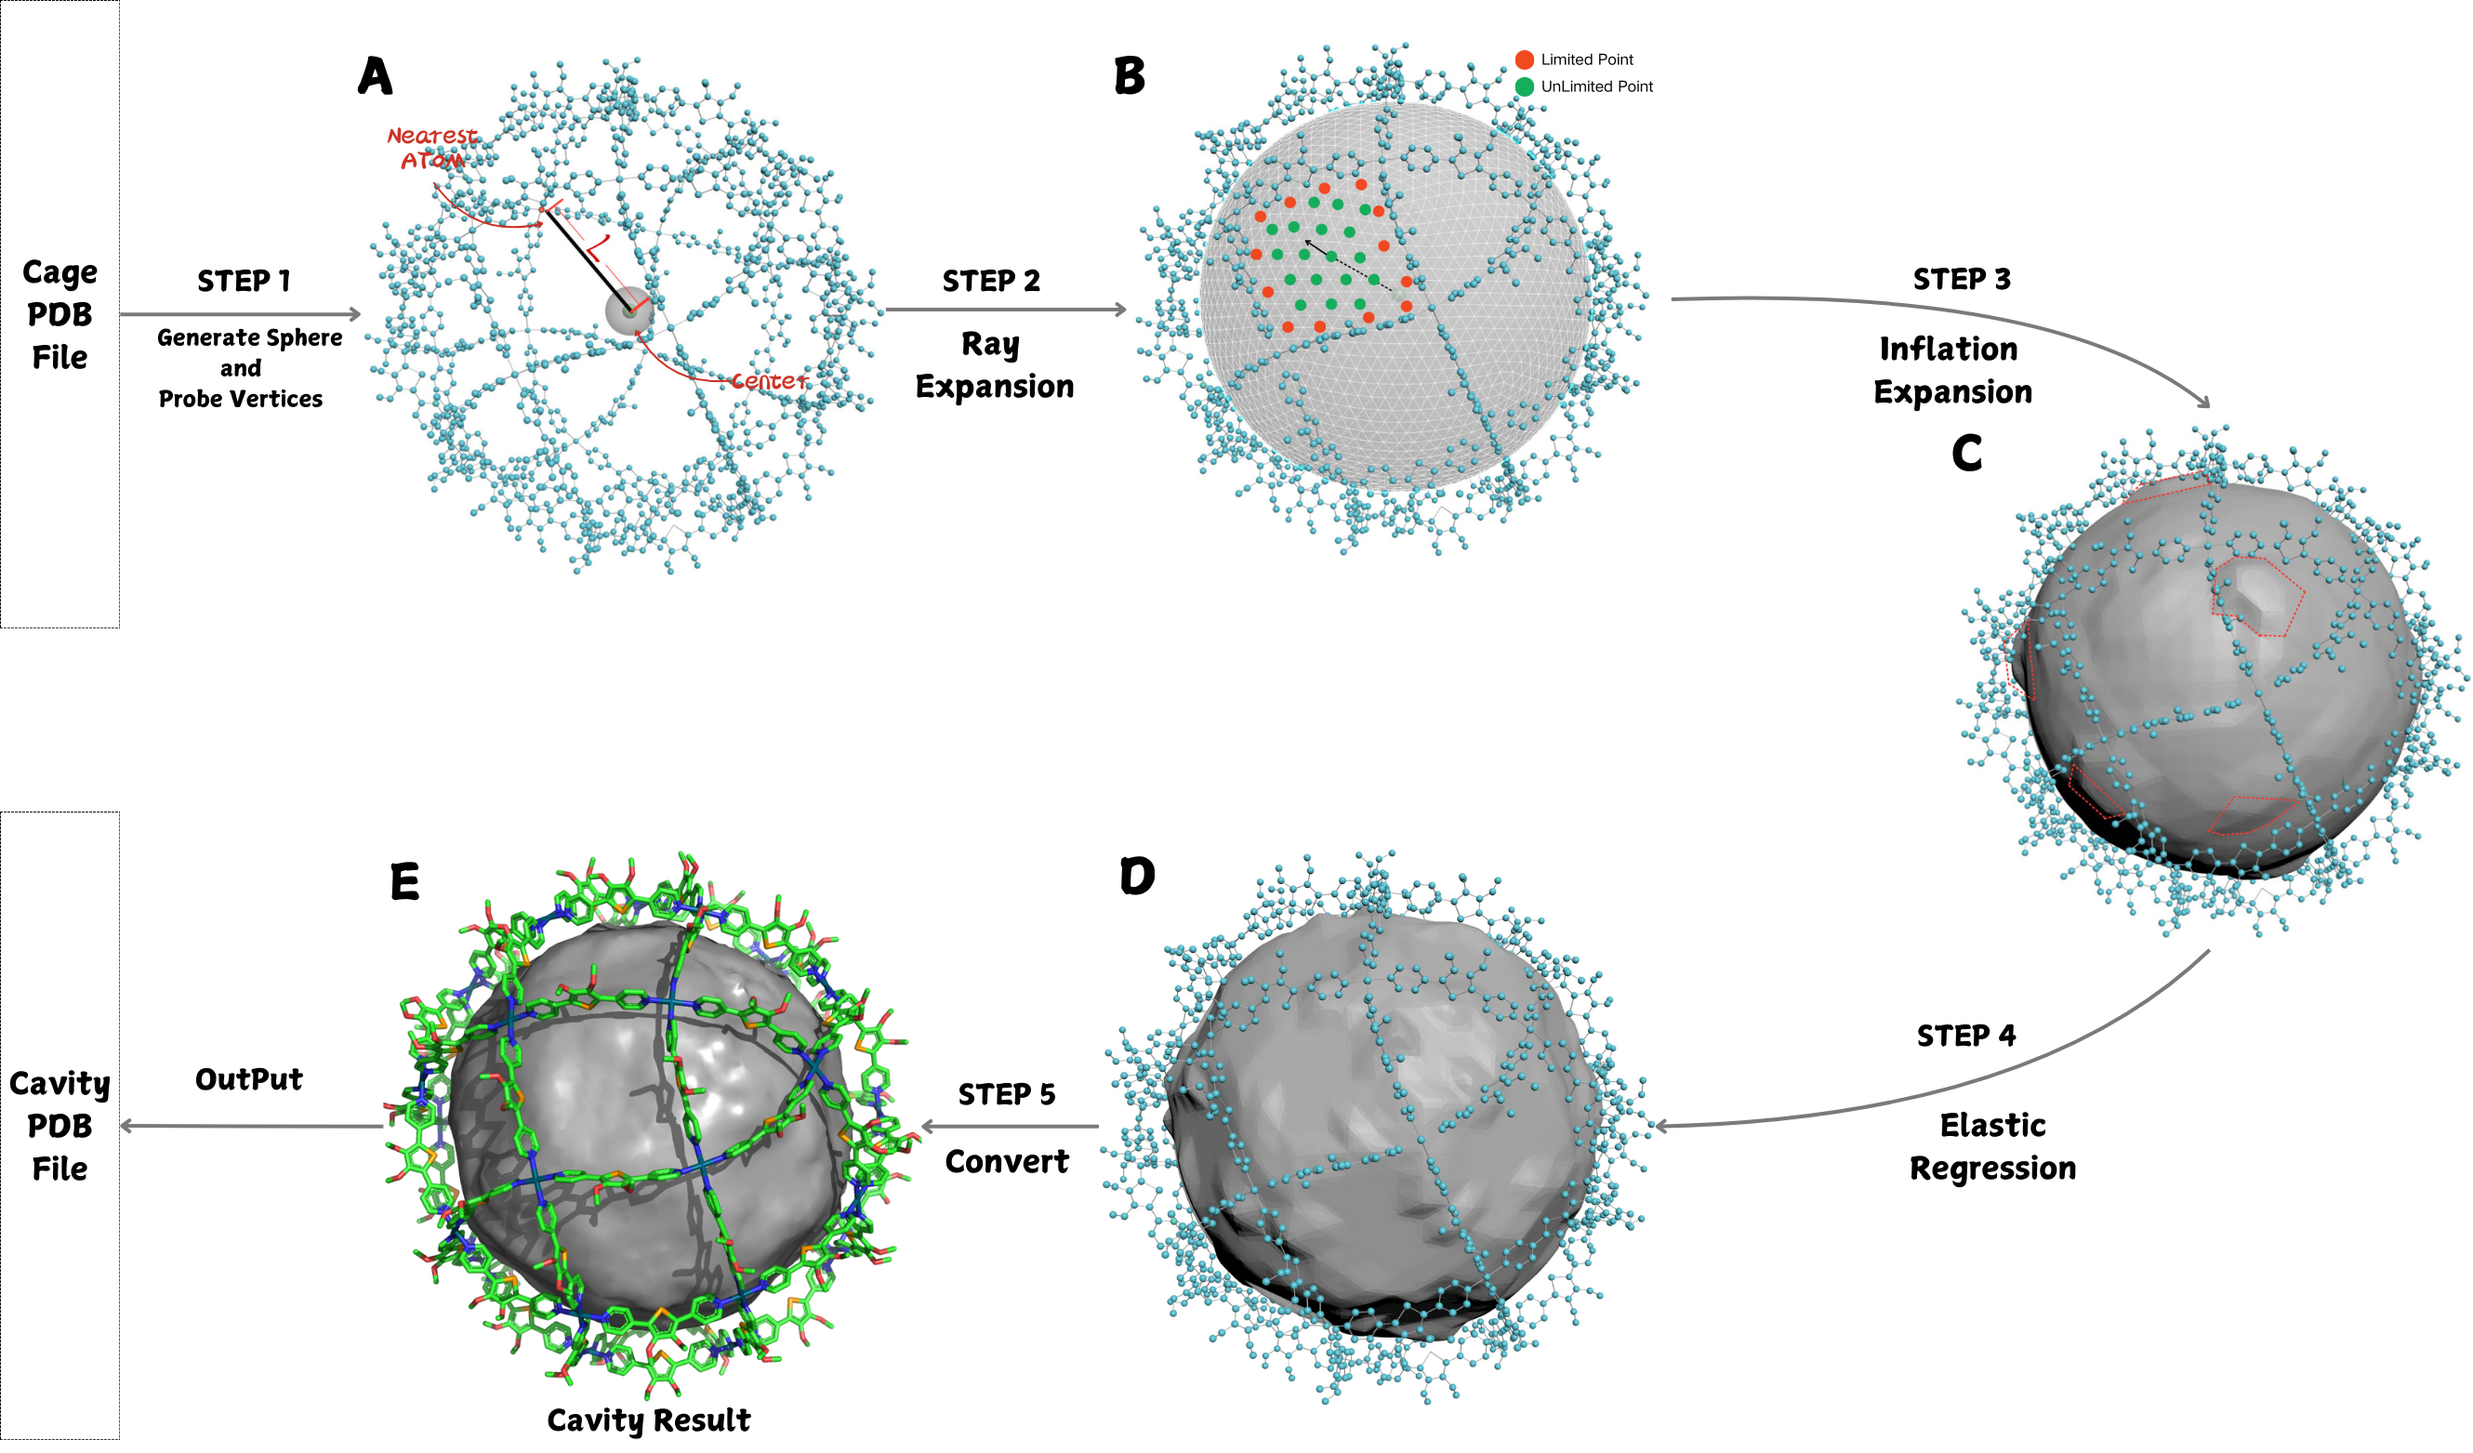
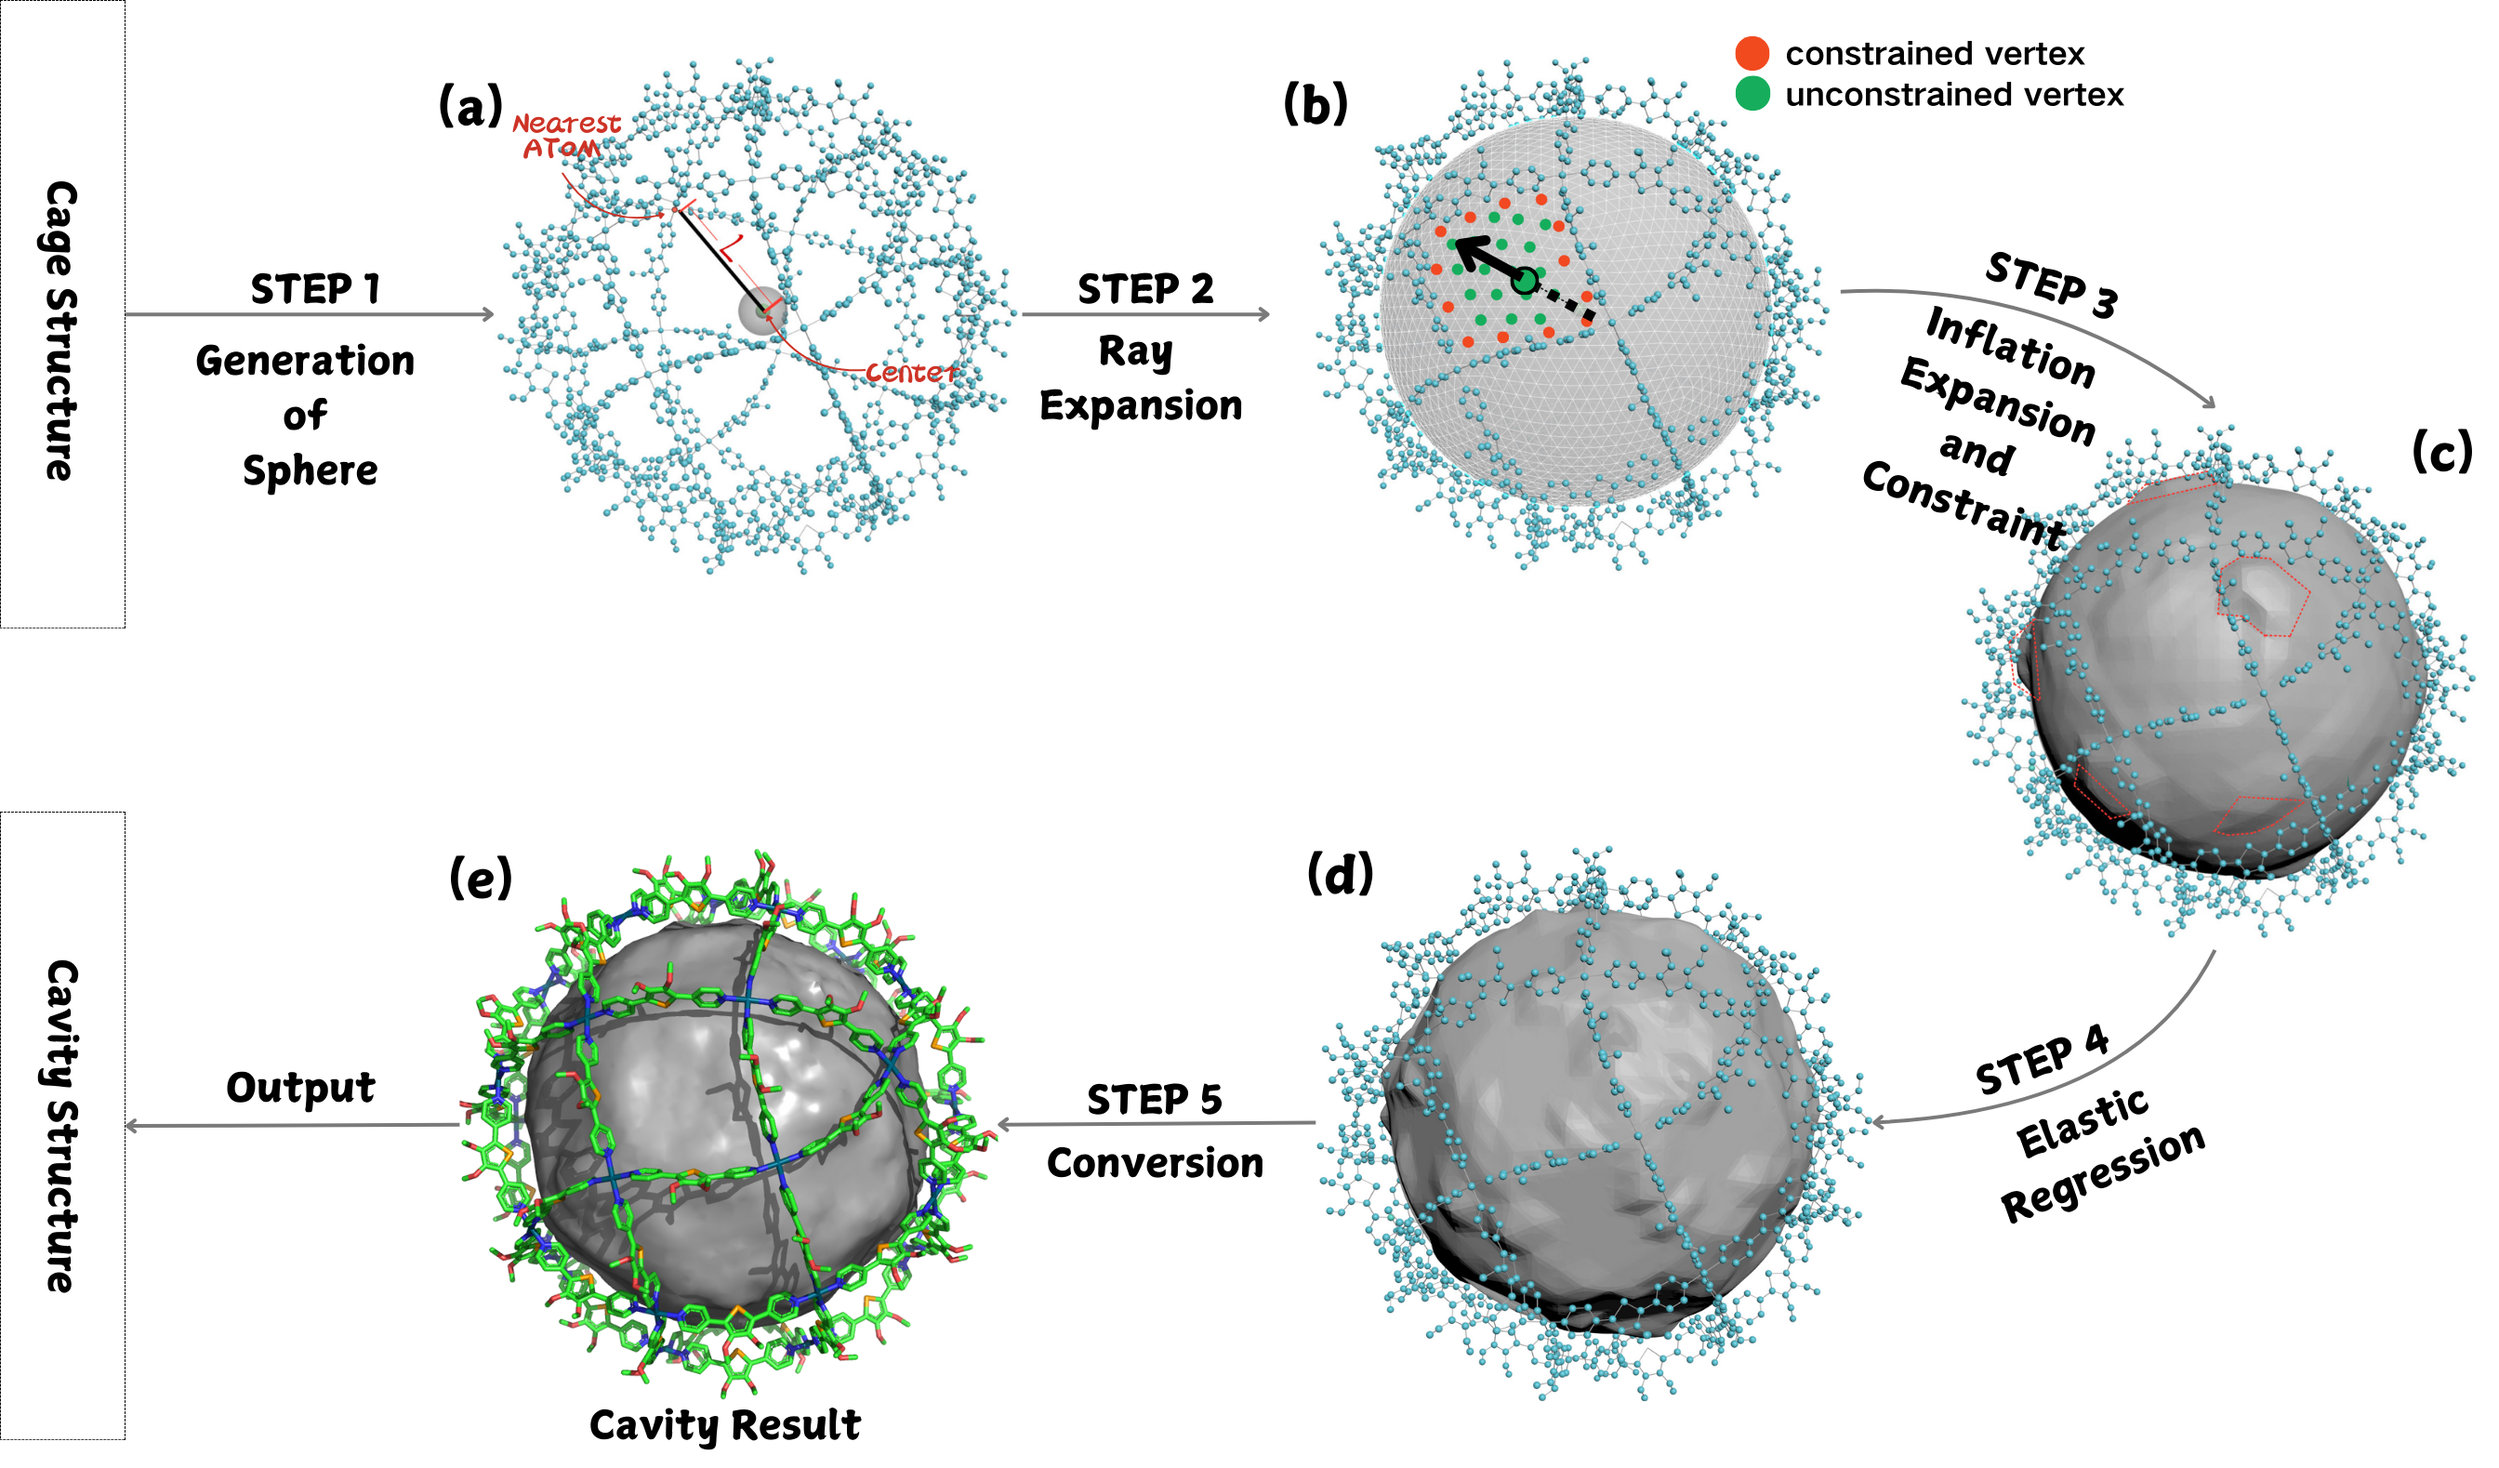
Supporting Information update

diff --git a/Supporting_Information.md b/Supporting_Information.md
@@ -1,6 +1,6 @@
 # Supporting Information
 
-The document serves as supporting material for "EXPANDING BALLOONS — A Robust Computational Method for Determining Supramolecular Cage Cavity Morphology Based on the 'Inflating Balloon' Metaphor." It provides further explanations of four parts of the paper: comparison of working parameters [(S1)](#s1-compare-working-parameter), center selection experiment [(S2)](#s2--center-selection-experiment-reult), SCB vertex result conversion [(S3)](#s3--parameters-selection-and-experimental-results),  experimental parameters and results of the baseline dataset [(S4)](#s4--scb-result-convert), and detail of step length selection experiment[(S5)](#s5--step-length-selection-experiment). For detailed information on how to install and use SCB, please refer to the GitHub repository for comprehensive documentation and source code.
+The document serves as supporting material for "EXPANDING BALLOONS — A Robust Computational Method for Determining Supramolecular Cage Cavity Morphology Based on the 'Inflating Balloon' Metaphor." It provides further explanations of four parts of the paper: comparison of working parameters [(S1)](#s1-compare-working-parameter), center selection experiment [(S2)](#s2--center-selection-experiment-reult), CMCC vertex result conversion [(S3)](#s3--parameters-selection-and-experimental-results),  experimental parameters and results of the baseline dataset [(S4)](#s4--CMCC-result-convert), and detail of step length selection experiment[(S5)](#s5--step-length-selection-experiment). For detailed information on how to install and use CMCC, please refer to the GitHub repository for comprehensive documentation and source code.
 
 ## S1: Compare working parameter
 <div align="center">
@@ -148,7 +148,7 @@ The following tables demonstrate the impact of the choice of sphere center on th
 
 <div align="center">
 
-| **Cage**                      | **Estimated Volume (Å³)** | **SCB Result (Å³)** | **Subdivision Times** | **Result**                           |
+| **Cage**                      | **Estimated Volume (Å³)** | **CMCC Result (Å³)** | **Subdivision Times** | **Result**                           |
 |:----------------------------------:|:-------------------------:|:--------------:|:-----------------:|:-----------------------------------:|
 | **B1**                        | 273                       | 303            | 4                 | <img src="./image/B1.png" width="100" height="100"/>   |
 | **B2**                        | 281                       | 314            | 4                 | <img src="./image/B2.png" width="100" height="100"/>   |
@@ -169,7 +169,7 @@ The following tables demonstrate the impact of the choice of sphere center on th
 
 ### Table S6 : Parameters and calculation result of dataset 2
 
-| **Cage** | **Reference/Average Volume (Å³)** | **SCB Result (Å³)** | **Subdivision Times** | **Result** |
+| **Cage** | **Reference/Average Volume (Å³)** | **CMCC Result (Å³)** | **Subdivision Times** | **Result** |
 |:--------:|:----------------------------------:|:--------------:|:-----------------:|:----------:|
 | **A1**   | 1375                               | 1455           | 5                 | <img src="./image/A1.png" width="100" height="100"/> |
 | **C1**   | 549                                | 592            | 5                 | <img src="./image/C1.png" width="100" height="100"/> |
@@ -184,7 +184,7 @@ The following tables demonstrate the impact of the choice of sphere center on th
 </div>
 
 
-The selection of parameters in the experiment is primarily based on two principles: data analysis results of subdivision times and comparison of visualization results.   First, we examine the impact of subdivision times on the calculation results for dataset 1 from the paper.   The SCB method's first step is the grid's subdivision surface .   This step is similar to grid partitioning in grid-based methods, where the number of divisions affects the precision and computation time of the final results.   Figure 2 shows the relationship between subdivision times (ST) and SCB computation time.  Due to the subdivision surface algorithm causing an exponential increase in the number of vertices, the corresponding computation time also increases with the times of subdivision surface.  It is evident that after six grid divisions, the computation time reaches an unacceptable magnitude (55 seconds).   Therefore, the subdivision parameters should only be between 3, 4, and 5.   In Figure 2, the blue, green, and yellow lines represent the calculation results for subdivision times of 3, 4, and 5, respectively.
+The selection of parameters in the experiment is primarily based on two principles: data analysis results of subdivision times and comparison of visualization results.   First, we examine the impact of subdivision times on the calculation results for dataset 1 from the paper.   The CMCC method's first step is the grid's subdivision surface .   This step is similar to grid partitioning in grid-based methods, where the number of divisions affects the precision and computation time of the final results.   Figure 2 shows the relationship between subdivision times (ST) and CMCC computation time.  Due to the subdivision surface algorithm causing an exponential increase in the number of vertices, the corresponding computation time also increases with the times of subdivision surface.  It is evident that after six grid divisions, the computation time reaches an unacceptable magnitude (55 seconds).   Therefore, the subdivision parameters should only be between 3, 4, and 5.   In Figure 2, the blue, green, and yellow lines represent the calculation results for subdivision times of 3, 4, and 5, respectively.
 
 
 <p align="center">
@@ -193,7 +193,7 @@ The selection of parameters in the experiment is primarily based on two principl
 </p>
 
 
-By observing the graphs, it can be concluded that SCB yields better results for larger supramolecular cages (Cavity Volume > 500) when ST = 5. However, for other supramolecular cage cavity calculations, the impact of ST on the results is not significant, as shown in Figure 3A. Hence, we introduced the Origin Publication cavity volume as a comparison parameter based on Rebek's rule (Figure 3B). ST = 3 has higher calculation accuracy for smaller supramolecular cages. ST = 4 shows more stable and higher accuracy across both calculation references. To further explore the choice of calculation parameters, we visualized the data with smaller cavity volumes (B5, B6).
+By observing the graphs, it can be concluded that CMCC yields better results for larger supramolecular cages (Cavity Volume > 500) when ST = 5. However, for other supramolecular cage cavity calculations, the impact of ST on the results is not significant, as shown in Figure 3A. Hence, we introduced the Origin Publication cavity volume as a comparison parameter based on Rebek's rule (Figure 3B). ST = 3 has higher calculation accuracy for smaller supramolecular cages. ST = 4 shows more stable and higher accuracy across both calculation references. To further explore the choice of calculation parameters, we visualized the data with smaller cavity volumes (B5, B6).
 
 
 By comparing the visualization results, the shape of the calculated results did not change, the size did.    We believe the change in size is due to finer probes exploring small spaces between atoms—spaces that cavity guest molecules cannot physically reach.    moreover, by combining the charts, It is evident that these small spaces are not considered part of the supramolecular cage's cavity (fewer vertices result in higher accuracy).    Therefore, we conclude that results for ST = 3 or 4 are acceptable compared to ST = 5.    Considering the comparison with mean absolute error(dotted line in Figure 3), we ultimately recommend using ST = 4 as the parameter when the volume of the supramolecular cage is less than 500.
@@ -207,12 +207,12 @@ By comparing the visualization results, the shape of the calculated results did 
   <br><em>Figure 3: Cavity visualization results of B5 and B6.</em>
 </p>
 
-## S4 : SCB result convert
-Current mainstream biomolecular results are typically saved and presented in formats such as pdb and mol2. However, the results from SCB are displayed in the form of vertex meshes. This format is not conducive for experts to further analyze supramolecular cages. To address this, we have developed a method to convert vertex data into pdb data for better presentation of our results. In this method, each vertex is replaced by a carbon atom. Compared to the vertex, a carbon atom has a van der Waals radius (1.7 Å). Therefore, we need to perform a reverse translation of 1.7 Å in the direction of atomic expansion. Figure 1 illustrates the corresponding conversion process. The black outline represents the outer contour of the surface before vertex conversion. The red and yellow outlines represent the inner and outer surface contours after conversion. Figure 1C shows the result after the vertices have been translated.
+## S4 : CMCC result convert
+Current mainstream biomolecular results are typically saved and presented in formats such as pdb and mol2. However, the results from CMCC are displayed in the form of vertex meshes. This format is not conducive for experts to further analyze supramolecular cages. To address this, we have developed a method to convert vertex data into pdb data for better presentation of our results. In this method, each vertex is replaced by a carbon atom. Compared to the vertex, a carbon atom has a van der Waals radius (1.7 Å). Therefore, we need to perform a reverse translation of 1.7 Å in the direction of atomic expansion. Figure 1 illustrates the corresponding conversion process. The black outline represents the outer contour of the surface before vertex conversion. The red and yellow outlines represent the inner and outer surface contours after conversion. Figure 1C shows the result after the vertices have been translated.
 
 <div align="center">
-  <img src="./image/4.png" alt="SCB Convert Proecss" style="width:100%;">
-  <p><em>Figure 4: SCB Result Convert Process.</em></p>
+  <img src="./image/4.png" alt="CMCC Convert Proecss" style="width:100%;">
+  <p><em>Figure 4: CMCC Result Convert Process.</em></p>
 </div>
 
 
